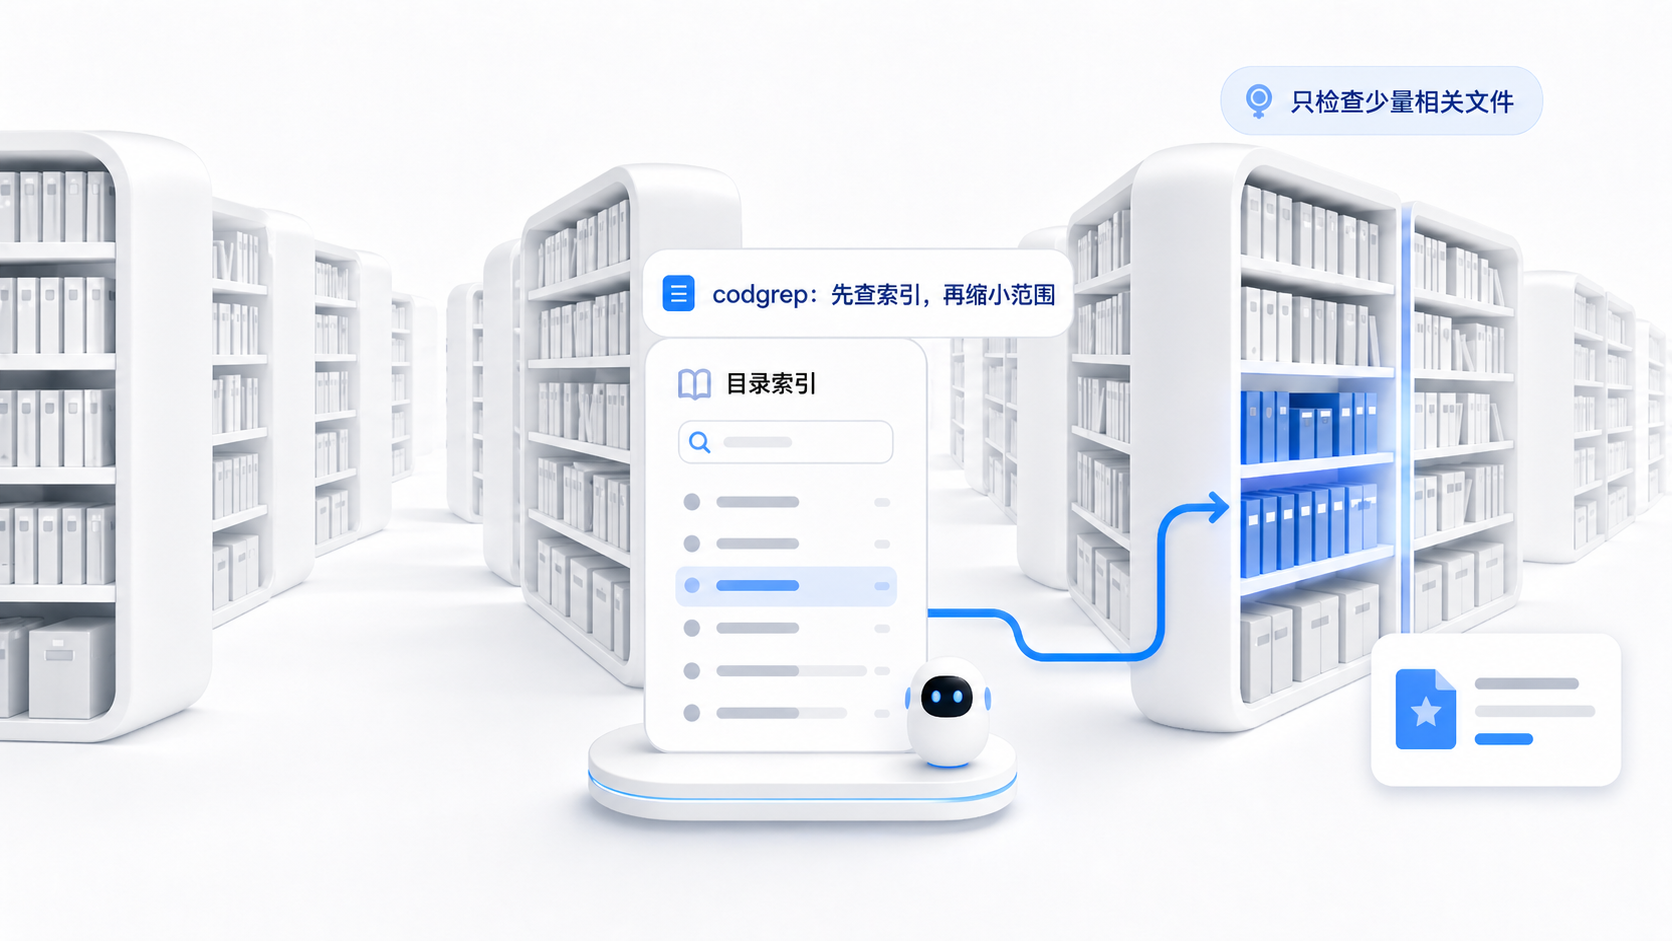
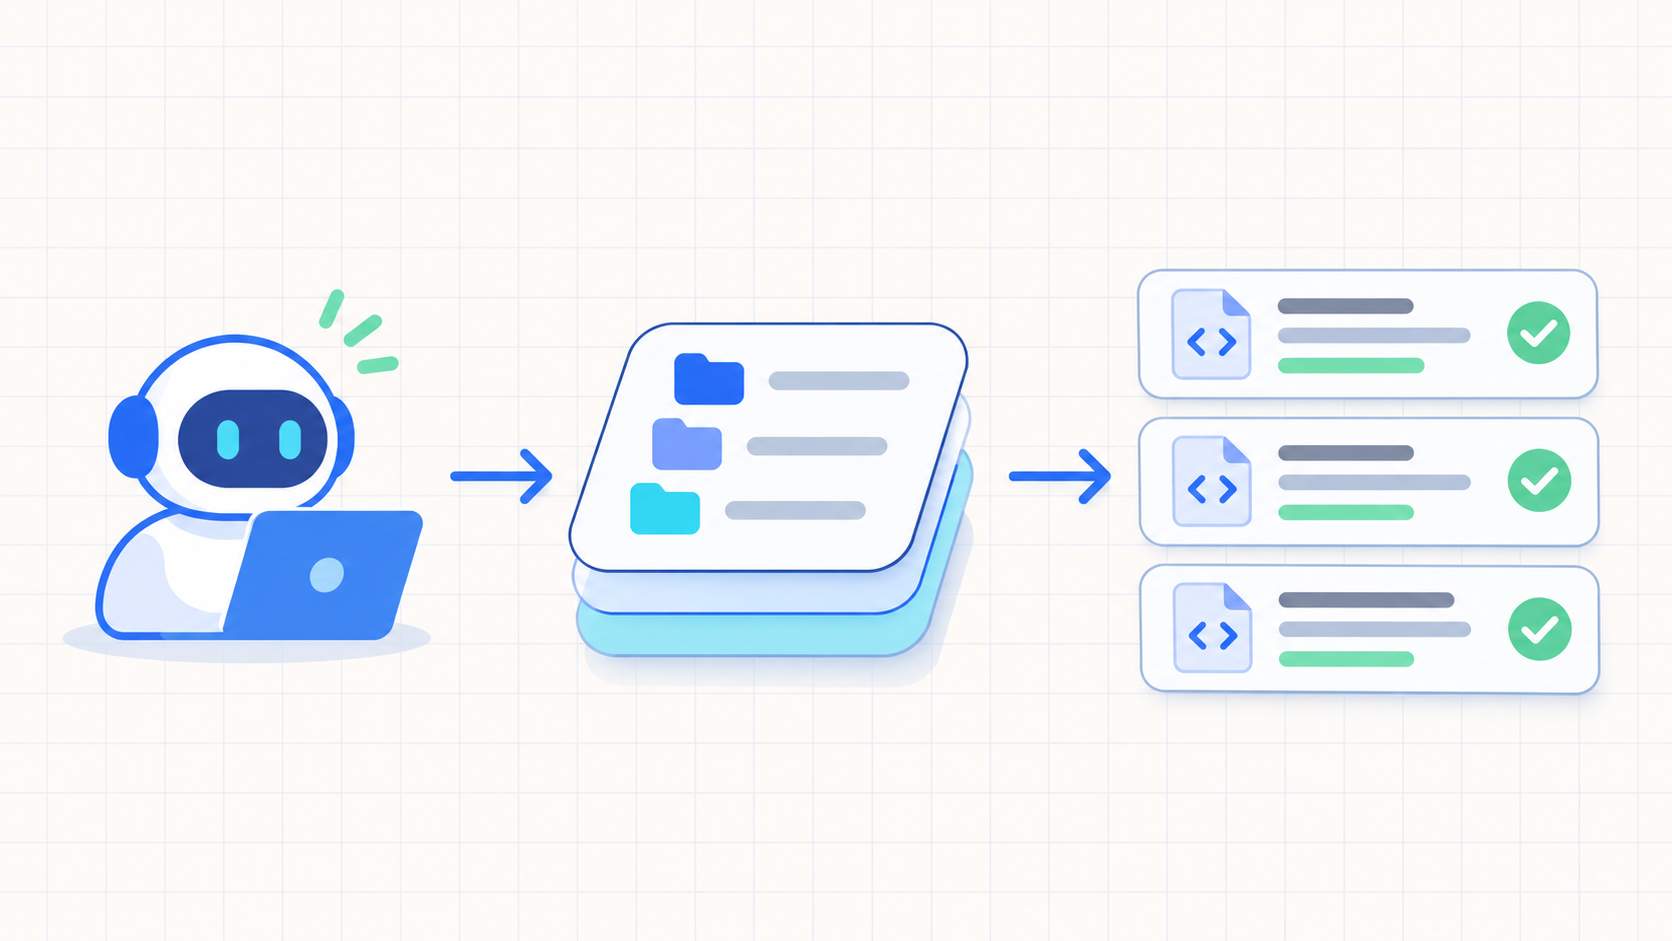
docs: refine README visuals

diff --git a/README.md b/README.md
@@ -34,15 +34,11 @@ The benchmark that motivated this project was run on Chromium, a repository with
 
 These figures describe the Chromium benchmark setup documented in the project materials. They are a reference point for the design, not a promise that every repository or query will see the same speedup. See [benchmark notes](docs/chromium_query_benchmark_2026-07-25.md) and [workspace results](docs/filesystem_workspace_results.md) for the measurement details.
 
-![BitFun Chromium tool-time comparison](docs/assets/bitfun-chromium-tool-time.png)
+![FlashGrep query performance](docs/assets/flashgrep-query-performance.png)
 
-<p align="center"><em>A representative workflow dropped from roughly 145.9 seconds to 7.82 seconds after indexed search replaced repeated grep and glob scans.</em></p>
+<p align="center"><em>Representative Chromium query timings, with FlashGrep in mint and ripgrep in coral. The documented query set averages 36.1× faster.</em></p>
 
-![FlashGrep versus ripgrep benchmark](docs/assets/flashgrep-ripgrep-36x.png)
-
-<p align="center"><em>Across the documented Chromium query set, the internal comparison reports an average 36.1× speedup over ripgrep.</em></p>
-
-![FlashGrep Chromium index-build cost](docs/assets/flashgrep-index-build.png)
+![FlashGrep index snapshot](docs/assets/flashgrep-index-snapshot.png)
 
 ## What it provides
 
